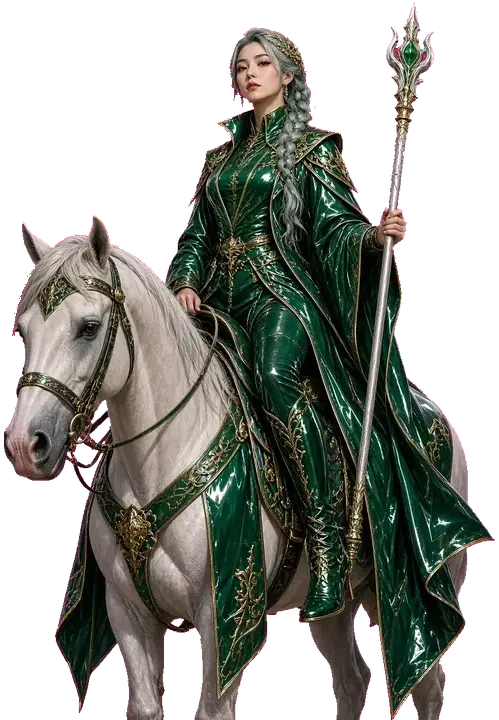
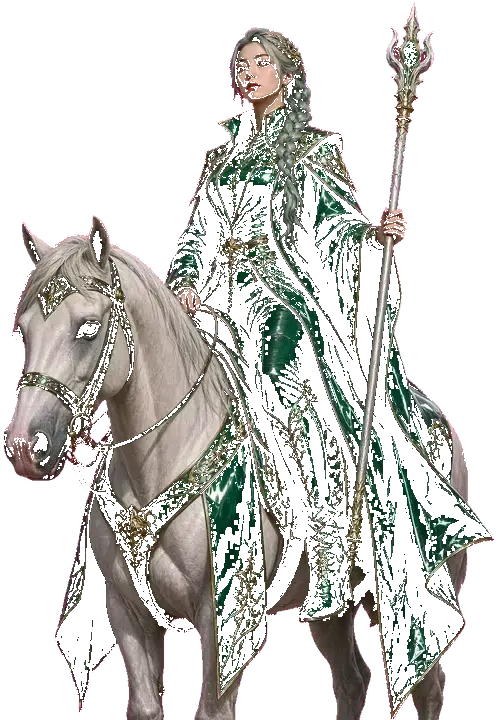
Переписать карту цельными тайлами и классической нижней панелью.
Тайлы больше не тянутся из фотографий: ровная заливка без чёрных клиньев, камера не выезжает за край, мини-карта прямоугольная. Снизу портрет, ход, мана, мораль, удача и шесть кнопок. С всадниц снята розовая плашка. Кэш 1.7.0.

diff --git a/js/render.js b/js/render.js
@@ -11,8 +11,8 @@ import {
   SPR, bodySrc, drawClouds, drawFigure, drawGround, drawRiver, groundSrc, imageSync as painted, preloadWorld, prime as primeArt, rideSrc, torch,
 } from "./visual.js";
 
-export const TW = 96;
-export const TH = 48;
+export const TW = 64;
+export const TH = 32;
 
 const images = new Map();
 export function preload(src) {
@@ -160,18 +160,65 @@ export function screenToTile(sx, sy, cam, w, h) {
 
 function toScreen(wx, wy, cam, w, h) {
   return {
-    x: (wx - cam.x) * cam.zoom + w / 2,
-    y: (wy - cam.y) * cam.zoom + h / 2,
+    x: Math.round((wx - cam.x) * cam.zoom + w / 2),
+    y: Math.round((wy - cam.y) * cam.zoom + h / 2),
   };
+}
+
+const TILE_INK = {
+  [T_GRASS]: ["#3f8a34", "#2f6d28", "#67a84a"],
+  [T_FOREST]: ["#2f7a30", "#1f5c22", "#4e9a3c"],
+  [T_HILL]: ["#6a8a3a", "#4d6a28", "#8aaa52"],
+  [T_DIRT]: ["#a78448", "#8a6840", "#c4a060"],
+  [T_SAND]: ["#d2b56a", "#c4a25a", "#e6d090"],
+  [T_SNOW]: ["#e7eef2", "#d5dee6", "#f7fbfd"],
+  [T_SWAMP]: ["#3d6840", "#2a4a30", "#5a7848"],
+  [T_WATER]: ["#2f78b0", "#1d5e90", "#7ec8ea"],
+  [T_MOUNTAIN]: ["#8b9098", "#5c636c", "#c5ccd4"],
+  [T_LAVA]: ["#8a3018", "#5a180c", "#e07030"],
+};
+
+function paintIso(ctx, type, dw, dh, x, y) {
+  const cols = TILE_INK[type] || TILE_INK[T_GRASS];
+  ctx.save();
+  ctx.beginPath();
+  ctx.moveTo(0, -(dh + 6) / 2);
+  ctx.lineTo((dw + 6) / 2, 0);
+  ctx.lineTo(0, (dh + 6) / 2);
+  ctx.lineTo(-(dw + 6) / 2, 0);
+  ctx.closePath();
+  ctx.clip();
+  ctx.fillStyle = cols[0];
+  ctx.fillRect(-dw - 4, -dh - 4, dw * 2 + 8, dh * 2 + 8);
+  ctx.restore();
+}
+
+export function clampCamera(cam, state, viewW, viewH) {
+  if (!state || !state.map) return;
+  const z = Math.max(0.8, Math.min(cam.zoom, 2));
+  cam.zoom = z;
+  const halfW = viewW / 2 / z;
+  const halfH = viewH / 2 / z;
+  const pts = [
+    tileCenter(0, 0),
+    tileCenter(state.map.w - 1, 0),
+    tileCenter(0, state.map.h - 1),
+    tileCenter(state.map.w - 1, state.map.h - 1),
+  ];
+  const minX = Math.min(...pts.map((p) => p.x)) - TW;
+  const maxX = Math.max(...pts.map((p) => p.x)) + TW;
+  const minY = Math.min(...pts.map((p) => p.y)) - TH;
+  const maxY = Math.max(...pts.map((p) => p.y)) + TH;
+  if (maxX - minX <= halfW * 2) cam.x = (minX + maxX) / 2;
+  else cam.x = Math.min(maxX - halfW, Math.max(minX + halfW, cam.x));
+  if (maxY - minY <= halfH * 2) cam.y = (minY + maxY) / 2;
+  else cam.y = Math.min(maxY - halfH, Math.max(minY + halfH, cam.y));
 }
 
 export function drawMap(ctx, state, view) {
   const { cam, w, h, time, playerId, path, selectedId } = view;
   ctx.clearRect(0, 0, w, h);
-  const sky = ctx.createLinearGradient(0, 0, 0, h);
-  sky.addColorStop(0, "#1a0d12");
-  sky.addColorStop(1, "#070304");
-  ctx.fillStyle = sky;
+  ctx.fillStyle = "#2f6d28";
   ctx.fillRect(0, 0, w, h);
 
   const margin = 3;
@@ -199,34 +246,20 @@ export function drawMap(ctx, state, view) {
     const c = tileCenter(x, y);
     const s = toScreen(c.x, c.y, cam, w, h);
     const dw = TW * cam.zoom, dh = TH * cam.zoom;
+    ctx.save();
+    ctx.translate(s.x, s.y);
     if (!seen) {
-      drawDiamond(ctx, s.x, s.y, dw + 1.2, dh + 1.2, "#000");
+      paintIso(ctx, T_GRASS, dw, dh, x, y);
+      ctx.globalAlpha = 0.72;
+      drawDiamond(ctx, 0, 0, dw + 2, dh + 2, "#10210f");
+      ctx.restore();
       continue;
     }
     const type = state.map.terrain[i];
-    const gsrc = groundSrc(type, x, y);
-    primeArt(gsrc);
-    const gimg = painted(gsrc);
-    ctx.save();
-    ctx.translate(s.x, s.y);
-    if (!drawGround(ctx, gimg, dw, dh, type, time, x, y)) {
-      const sprite = tileCanvas(type, (x * 3 + y * 5) % 3);
-      ctx.drawImage(sprite, -dw / 2 - 0.6, -dh / 2 - 0.6, dw + 1.2, dh + 1.2);
-    }
+    paintIso(ctx, type, dw, dh, x, y);
     const flags = state.map.flags[i];
-    if (flags & FLAG_ROAD && type !== T_WATER && type !== T_MOUNTAIN) {
-      primeArt("art/tiles/road.jpg");
-      const road = painted("art/tiles/road.jpg");
-      if (road) {
-        ctx.save();
-        ctx.globalAlpha = 0.92;
-        drawGround(ctx, road, dw * 0.78, dh * 0.42, T_DIRT, time, x, y);
-        ctx.restore();
-      } else paintRoad(ctx, dw, dh);
-    }
+    if (flags & FLAG_ROAD && type !== T_WATER && type !== T_MOUNTAIN) paintRoad(ctx, dw, dh);
     if (flags & FLAG_RIVER) drawRiver(ctx, dw, dh, time, flags & FLAG_FORD);
-    if (type === T_WATER && !gimg) paintWaterShine(ctx, dw, dh, time, x, y);
-    if (type === T_GRASS || type === T_DIRT) drawTuft(ctx, dw, dh, x, y, type);
     ctx.restore();
     if (type === T_FOREST || type === T_HILL) drawForestSprite(ctx, s.x, s.y, cam.zoom, time, x, y, type);
     if (type === T_MOUNTAIN) drawPeak(ctx, s.x, s.y, cam.zoom, time, x);
@@ -247,12 +280,7 @@ export function drawMap(ctx, state, view) {
   props.sort((a, b) => a.k - b.k);
   for (const p of props) p.draw();
 
-  drawClouds(ctx, w, h, time);
-  const vg = ctx.createRadialGradient(w / 2, h / 2, h * 0.2, w / 2, h / 2, h * 0.72);
-  vg.addColorStop(0, "rgba(0,0,0,0)");
-  vg.addColorStop(1, "rgba(0,0,0,.28)");
-  ctx.fillStyle = vg;
-  ctx.fillRect(0, 0, w, h);
+  drawInsetMap(ctx, state, playerId, w, h);
 }
 
 function drawTuft(ctx, dw, dh, x, y, type) {
@@ -377,6 +405,36 @@ export function drawMinimap(canvas, state, playerId, cam, viewW, viewH) {
   }
 }
 
+function drawInsetMap(ctx, state, playerId, w, h) {
+  const mw = state.map.w, mh = state.map.h;
+  const W = 78, H = 64, x0 = w - W - 8, y0 = 8;
+  ctx.save();
+  ctx.fillStyle = "#1a120c";
+  ctx.fillRect(x0 - 3, y0 - 3, W + 6, H + 6);
+  ctx.strokeStyle = "#e6c878";
+  ctx.lineWidth = 2;
+  ctx.strokeRect(x0 - 3, y0 - 3, W + 6, H + 6);
+  const cols = ["#3f8a34", "#a78448", "#d2b56a", "#e7eef2", "#3d6840", "#8a3018", "#6a8a3a", "#2f7a30", "#2f78b0", "#8b9098"];
+  const tw = W / mw, th = H / mh;
+  for (let y = 0; y < mh; y++) for (let x = 0; x < mw; x++) {
+    if (!remembered(state, playerId, x, y)) continue;
+    ctx.fillStyle = cols[state.map.terrain[y * mw + x]] || "#333";
+    ctx.fillRect(x0 + x * tw, y0 + y * th, tw + 0.6, th + 0.6);
+  }
+  for (const t of state.towns) {
+    if (!remembered(state, playerId, t.x, t.y)) continue;
+    const owner = state.players.find((p) => p.id === t.owner);
+    ctx.fillStyle = owner ? owner.color : "#e6c878";
+    ctx.fillRect(x0 + t.x * tw - 1, y0 + t.y * th - 1, 3, 3);
+  }
+  for (const hr of state.heroes) {
+    if (hr.lost || !remembered(state, playerId, hr.x, hr.y)) continue;
+    ctx.fillStyle = state.players[hr.player].color;
+    ctx.fillRect(x0 + hr.x * tw, y0 + hr.y * th, 2.5, 2.5);
+  }
+  ctx.restore();
+}
+
 function drawDiamond(ctx, x, y, dw, dh, fill) {
   ctx.beginPath();
   ctx.moveTo(x, y - dh / 2);
@@ -485,12 +543,12 @@ function drawMountain(ctx, x, y, z) {
 
 function drawTown(ctx, state, town, cam, w, h, time) {
   const c = tileCenter(town.x, town.y);
-  const s = toScreen(c.x, c.y - 4, cam, w, h);
+  const s = toScreen(c.x, c.y, cam, w, h);
   const fac = FACTIONS[town.faction];
   const src = SPR.castle[town.faction] || fac.castle;
   primeArt(src);
   const img = painted(src);
-  const bh = 132 * cam.zoom;
+  const bh = 70 * cam.zoom;
   const owner = state.players.find((p) => p.id === town.owner);
   ctx.save();
   ctx.translate(s.x, s.y);
@@ -518,7 +576,7 @@ const OBJ_GLYPH = {
 
 function drawObject(ctx, state, obj, cam, w, h) {
   const c = tileCenter(obj.x, obj.y);
-  const s = toScreen(c.x, c.y - 4, cam, w, h);
+  const s = toScreen(c.x, c.y, cam, w, h);
   const z = cam.zoom;
   ctx.save();
   ctx.translate(s.x, s.y);
@@ -634,7 +692,7 @@ function drawToken(ctx, img, x, y, r, ring, badge) {
 function drawHero(ctx, state, hero, cam, w, h, time, selected) {
   const bob = Math.sin(time / 280 + hero.id) * 2 * cam.zoom;
   const c = tileCenter(hero.x, hero.y);
-  const s = toScreen(c.x, c.y - 6, cam, w, h);
+  const s = toScreen(c.x, c.y, cam, w, h);
   const z = cam.zoom;
   const src = rideSrc(hero.rosterId);
   primeArt(src);
@@ -650,7 +708,7 @@ function drawHero(ctx, state, hero, cam, w, h, time, selected) {
     ctx.ellipse(0, 6 * z, 18 * z, 7 * z, 0, 0, Math.PI * 2);
     ctx.stroke();
   }
-  if (img && painted(src)) drawFigure(ctx, img, 0, 12 * z, 62 * z, time, { seed: hero.id, bob: 2.2, sway: 0.03 });
+  if (img && painted(src)) drawFigure(ctx, img, 0, 2 * z, 48 * z, time, { seed: hero.id, bob: 1.2, sway: 0.02 });
   else drawToken(ctx, img, 0, -16 * z, 16 * z, fac.color, "");
   drawPennant(ctx, 18 * z, -46 * z, z, state.players[hero.player].color);
   ctx.restore();

diff --git a/js/ui.js b/js/ui.js
@@ -196,17 +196,16 @@ export function topHTML(game) {
   const p = game.players[game.current];
   const cal = calendar(game.day);
   const you = p.control === "human";
-  return `<div class="dayline">
-      <strong>${esc(cal.label)}</strong>
-      <span>${esc(cal.dayName)}${you ? "" : " · " + esc(p.name)}</span>
-      <button class="btn icon" data-act="open-system" aria-label="Меню"></button>
-    </div>
-    <div class="resbar">${resourcesHTML(p.resources)}</div>`;
+  return `<div class="woodtop">
+      <div class="dayline"><strong>${esc(cal.label)}</strong><span>${esc(cal.dayName)}${you ? "" : " · " + esc(p.name)}</span>
+        <button class="btn icon" data-act="open-system" aria-label="Меню"></button>
+      </div>
+      <div class="resbar">${resourcesHTML(p.resources)}</div>
+    </div>`;
 }
 
 export function dockHTML(game, hero, mode, flags = {}) {
   if (mode === "battle" || mode === "deploy") return battleDock(game, mode, flags);
-  const sub = hero ? `ход ${hero.movement} · мана ${hero.mana}/${maxMana(hero)}` : "нет героини";
   const img = hero ? hero.portrait : "icons/icon-192.png";
   const nm = hero ? hero.name : "—";
   let coach = "";
@@ -215,12 +214,28 @@ export function dockHTML(game, hero, mode, flags = {}) {
       coach = `<div class="coach"><span>Коснитесь клетки — героиня пойдёт. «Ход» отдаёт день.</span><button class="btn small" data-act="dismiss-coach">Ясно</button></div>`;
     }
   } catch { /* хранилище недоступно */ }
-  return `${coach}<p class="orb-caption">${esc(nm)} · ${esc(sub)} <button class="btn small" data-act="next-hero">Дальше</button></p>
-    <div class="orb-row">
-      <button class="orb" data-act="open-hero" aria-label="Героиня"><img src="${esc(img)}" alt=""><span>Героиня</span></button>
-      <button class="orb" data-act="open-town" aria-label="Город"><span class="glyph">⌂</span><span>Город</span></button>
-      <button class="orb" data-act="open-spell" aria-label="Книга"><span class="glyph">✦</span><span>Книга</span></button>
-      <button class="orb gold" data-act="end-turn" aria-label="Ход"><span class="glyph">♛</span><span>Ход</span></button>
+  const e = hero ? effective(hero) : null;
+  const dots = (n) => {
+    const v = Math.max(0, Math.min(3, n || 0));
+    return "●".repeat(v) + "○".repeat(3 - v);
+  };
+  return `${coach}<div class="herobar">
+      <button class="herobar-port" data-act="open-hero" aria-label="Героиня"><img src="${esc(img)}" alt=""></button>
+      <div class="herobar-text">
+        <b>${esc(nm)}</b>
+        <div>${hero ? esc(FACTIONS[hero.faction].name) + " · ур. " + hero.level : ""}</div>
+        <div>Ход ${hero ? hero.movement : 0} · Мана ${hero ? hero.mana + "/" + maxMana(hero) : "—"}</div>
+        <div>Мораль ${e ? dots(e.morale) : "—"} · Удача ${e ? dots(e.luck) : "—"}</div>
+      </div>
+      <button class="btn small" data-act="next-hero">Дальше</button>
+    </div>
+    <div class="cmdbar">
+      <button class="cmd" data-act="end-turn"><b>⚑</b>Ход</button>
+      <button class="cmd" data-act="open-hero"><b>♛</b>Герой</button>
+      <button class="cmd" data-act="open-town"><b>⌂</b>Замок</button>
+      <button class="cmd" data-act="open-overview"><b>◉</b>Царство</button>
+      <button class="cmd" data-act="open-spell"><b>✦</b>Книга</button>
+      <button class="cmd" data-act="open-quest"><b>✦</b>Цель</button>
     </div>`;
 }
 
@@ -699,6 +714,17 @@ export function overviewHTML(game) {
   return `<div class="modal-back"><div class="sheet"><header class="sheeth"><h2>Королевство</h2><button class="btn small ghost" data-act="close-modal">Закрыть</button></header>
     <div class="body"><h3>Героини</h3><div class="stack">${heroes}</div><h3>Города</h3><div class="stack">${towns}</div>
     <h3>Журнал</h3>${game.log.slice(-8).map((l) => `<div class="muted">${esc(l.text)}</div>`).join("")}
+    </div></div></div>`;
+}
+
+export function questHTML(game) {
+  const goal = (game.victory && game.victory.type === "grail")
+    ? "Найдите святыню и поставьте её в город."
+    : "Погасите все чужие знамёна.";
+  const lines = (game.log || []).slice(-6).map((l) => `<p class="muted">${esc(l.text)}</p>`).join("");
+  return `<div class="modal-back"><div class="sheet"><header class="sheeth"><h2>Цель</h2><button class="btn small ghost" data-act="close-modal">Закрыть</button></header>
+    <div class="body stack">${voiceHTML("Кастелянша Лира", goal)}${lines}
+      <button class="btn" data-act="close-modal">В путь</button>
     </div></div></div>`;
 }
 

diff --git a/js/main.js b/js/main.js
@@ -12,7 +12,7 @@ import {
   reachable, startFight,
 } from "./combat.js";
 import {
-  battleCamera, drawBattle, drawMap, drawMinimap, focusHex, preloadFactionArt, screenToHex, screenToTile, tileCenter,
+  battleCamera, clampCamera, drawBattle, drawMap, focusHex, preloadFactionArt, screenToHex, screenToTile, tileCenter,
 } from "./render.js";
 import * as ui from "./ui.js";
 import * as saves from "./save.js";
@@ -190,6 +190,7 @@ function modalHTML(m) {
   if (m.type === "dwell") return ui.dwellingHTML(S.game, heroById(S.game, m.heroId), m.obj);
   if (m.type === "trade") return ui.tradeHTML(S.game);
   if (m.type === "overview") return ui.overviewHTML(S.game);
+  if (m.type === "quest") return ui.questHTML(S.game);
   if (m.type === "end") return ui.endHTML(m.end);
   if (m.type === "brief") return ui.briefHTML(S.game);
   if (m.type === "split") return ui.splitHTML(m.id);
@@ -239,9 +240,8 @@ function frame(t) {
       }
       drawBattle(ctx, S.game.battle, { ...view, cam: bcam, reach, currentUid: cur && cur.uid, fx: S.fx });
     } else {
+      clampCamera(S.cam, S.game, rect.width, rect.height);
       drawMap(ctx, S.game, view);
-      const mm = document.getElementById("minimap");
-      if (mm) drawMinimap(mm, S.game, human().id, S.cam, rect.width, rect.height);
     }
     const now = performance.now();
     for (const id of Object.keys(S.fx)) if (now - S.fx[id].t0 > 900) delete S.fx[id];
@@ -686,7 +686,7 @@ function startGame(spec) {
   S.modal = { type: "brief" };
   S.seenWeek = S.game.day;
   S.selected = S.game.heroes.find((h) => h.player === human().id && !h.lost)?.id || null;
-  S.cam = { x: 0, y: 0, zoom: 1.5 };
+  S.cam = { x: 0, y: 0, zoom: 1.35 };
   const h = selectedHero();
   if (h) focus(h);
   renderScreen();
@@ -811,6 +811,7 @@ async function onAct(actName, el) {
     if (actName === "dismiss-coach") { localStorage.setItem("lk-coach", "1"); paintChrome(); return; }
     if (actName === "open-system") { S.modal = { type: "system" }; paintChrome(); return; }
     if (actName === "open-overview") { S.modal = { type: "overview" }; paintChrome(); return; }
+    if (actName === "open-quest") { S.modal = { type: "quest" }; paintChrome(); return; }
     if (actName === "open-save") { S.slots = await saves.listSaves(); S.modal = { type: "save" }; paintChrome(); return; }
     if (actName === "to-menu") { S.screen = "menu"; S.modal = null; S.mode = "map"; S.slots = await saves.listSaves(); renderScreen(); return; }
     if (actName === "write-slot") {

diff --git a/css/game.css b/css/game.css
@@ -576,7 +576,36 @@ hr.sep { border: 0; border-top: 1px solid rgba(231,197,106,.18); margin: 8px 0; 
 }
 .mini-stats b { color: var(--gold); font-size: 14px; }
 .mini-stats span { font-size: 8px; color: var(--muted); }
-#minimap {
+#minimap { display: none !important; }
+.woodtop { padding: 4px 8px 6px; }
+.herobar {
+  display: flex; gap: 8px; align-items: center;
+  border: 2px solid #c4a15a;
+  border-radius: 12px;
+  background: linear-gradient(180deg, #3a2c1c, #1a120c);
+  padding: 6px;
+  box-shadow: inset 0 0 0 1px #5c4316;
+}
+.herobar-port {
+  width: 64px; height: 64px; padding: 0; border-radius: 8px;
+  border: 2px solid #e6c878; background: #100e0c; flex: 0 0 auto;
+}
+.herobar-port img { width: 100%; height: 100%; object-fit: cover; object-position: center 15%; border-radius: 6px; }
+.herobar-text { flex: 1; min-width: 0; font-size: 12px; line-height: 1.35; }
+.herobar-text b { display: block; font-family: "Cormorant LK", serif; font-size: 22px; color: #f6e7c4; line-height: 1; }
+.cmdbar { display: grid; grid-template-columns: repeat(6, minmax(0, 1fr)); gap: 4px; }
+.cmd {
+  min-height: 52px;
+  border: 2px solid #c4a15a;
+  border-radius: 8px;
+  background: linear-gradient(180deg, #4a3824, #1c140e);
+  color: #f6e7c4;
+  font-size: 10px;
+  font-weight: 700;
+  padding: 2px;
+}
+.cmd b { display: block; font-size: 16px; color: #f0d48a; font-weight: 700; }
+#minimap-off {
   position: absolute;
   top: 8px; right: 8px;
   width: 86px; height: 86px;

diff --git a/js/data.js b/js/data.js
@@ -1,6 +1,6 @@
 /** Статические данные «Лаковых королевств». Оригинальный мир, механика близкая к HoMM III. */
 
-export const GAME_VERSION = "1.6.0";
+export const GAME_VERSION = "1.7.0";
 
 export const RES_KEYS = ["gold", "lacquer", "resin", "pigment", "amber", "crystal", "pearl"];
 export const RES_NAME = {

diff --git a/sw.js b/sw.js
@@ -1,4 +1,4 @@
-const VERSION = "lk-1.6.0";
+const VERSION = "lk-1.7.0";
 const PRECACHE = [
   "./",
   "./art/battle/meadow.jpg",
